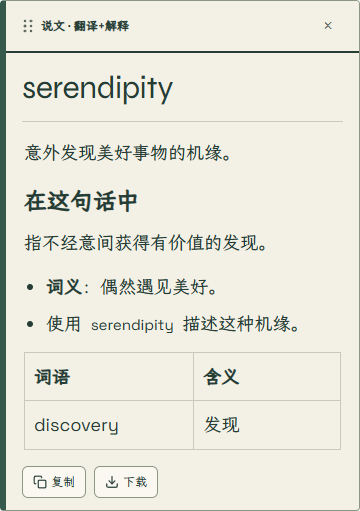
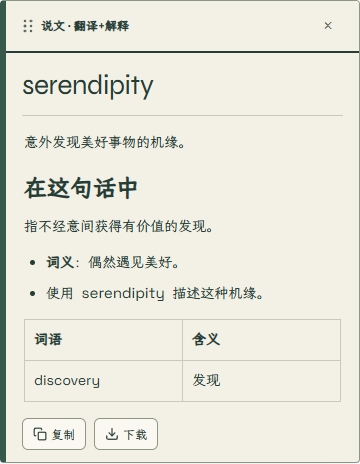
fix: set result title to 28px and body to 14px

diff --git a/theme.css b/theme.css
@@ -32,10 +32,10 @@
 #deepseek-explain-tooltip.lc-theme .ds-quote {
   margin: 14px 16px 0; padding: 0 0 12px; border: 0; border-bottom: 1px solid var(--lc-rule);
   border-radius: 0; background: transparent; color: var(--lc-ink);
-  font: 400 32px/1.3 var(--lc-title-font); letter-spacing: -.4px;
+  font: 400 28px/1.3 var(--lc-title-font); letter-spacing: -.4px;
   max-height: min(124px, 22vh); overflow-wrap: anywhere;
 }
-#deepseek-explain-tooltip.lc-theme .ds-body { padding: 14px 18px 12px; font-size: 18px; line-height: 1.85; }
+#deepseek-explain-tooltip.lc-theme .ds-body { padding: 14px 18px 12px; font-size: 14px; line-height: 1.85; }
 #deepseek-explain-tooltip.lc-theme .ds-markdown { line-height: 1.85; }
 #deepseek-explain-tooltip.lc-theme .ds-markdown h1 { font-size: 29px; font-weight: 500; }
 #deepseek-explain-tooltip.lc-theme .ds-markdown h2 { font-size: 23px; }

diff --git a/docs/DEVELOPMENT.md b/docs/DEVELOPMENT.md
@@ -210,3 +210,7 @@ popup.js仅将共用trigger-mode控件移动到当前用途的语言行，保留
 北京时间2026-10-16，以隔离Edge155.0.4283.45、Node24.18.1、Playwright1.62.1完成18项浮层检查及54项静态检查，git diff --check通过。原有选区避让、流式拖动、滚动/缩窗位置、关闭等17项继续通过；新增专项检查三配色×260/375/1000px，覆盖长中文原文、英文词条、正文/小标题/代码实际字号、内容无横向溢出、底部按钮在窗口内、宿主网页字体保持Arial。全部使用合成网页/Key和本机SSE，未验证真实供应商、其他浏览器与特殊网站样式。
 
 证据artifacts/qa/result-type-scale/report.json、result.png及各配色/宽度截图；公开result截图和本地预览同步更新。verify-tooltip-position新增--output以独立保存证据。重新加载扩展并刷新网页后使用；仅本地保存，本轮不纳入原有流式源码与文档改动，Description同步且继续忽略。
+
+## 2026-10-16 输出字号微调为28/14px
+
+基线6f7c0a7，按用户要求将词条标题设为28px、正文设为14px。工作区已有标题28px及对应断言，本轮沿用并补齐正文14px与断言；其他现有流式修改保留。版本4.6.0。18项隔离Edge浮层检查（含三配色、长句/窄屏和拖动）与54项静态检查、git diff --check通过；合成配置/本机SSE，未验证真实供应商与其他浏览器。报告及截图artifacts/qa/result-type-28-14/，公开截图和本地预览同步，重新加载扩展并刷新网页生效，仅本地保存。

diff --git a/docs/materials/README.md b/docs/materials/README.md
@@ -9,8 +9,10 @@
 | `screenshots/settings.png` | 实际扩展设置页，展示文楷题签、用途页签、当前模型、自绘菜单触发按钮与语言/触发设置 |
 | `screenshots/result.png` | 合成英语网页中的实际划词浮层，展示纸页侧边、选区、词条与模拟Markdown回答 |
 
-原始本机证据分别为`artifacts/qa/popup-auto-height/settings/deepseek-off.png`和`artifacts/qa/result-type-scale/result.png`。截图不证明真实供应商生成能力、回答质量或速度。生成证据及逐次记录仅本地保存；可复用验证方法见[开发说明](../DEVELOPMENT.md)。
+原始本机证据分别为`artifacts/qa/popup-auto-height/settings/deepseek-off.png`和`artifacts/qa/result-type-28-14/result.png`。截图不证明真实供应商生成能力、回答质量或速度。生成证据及逐次记录仅本地保存；可复用验证方法见[开发说明](../DEVELOPMENT.md)。
 
 2026-10-16菜单与字体更新：同目录manufacturer-open.png（仅本地）展示自绘厂家菜单，中文使用文楷屏幕版、英文使用Space Grotesk/Syne。截图中的厂家、型号和回答仍为合成数据。
 
 2026-10-16输出字号更新：result.png使用32px原文词条标题、18px正文与23px小标题，继续使用本地文楷/Space/Syne；合成词条和回答由本机SSE提供。
+
+2026-10-16后续字号微调：当前result.png词条标题28px、正文14px；仍为隔离Edge中的合成回答。
